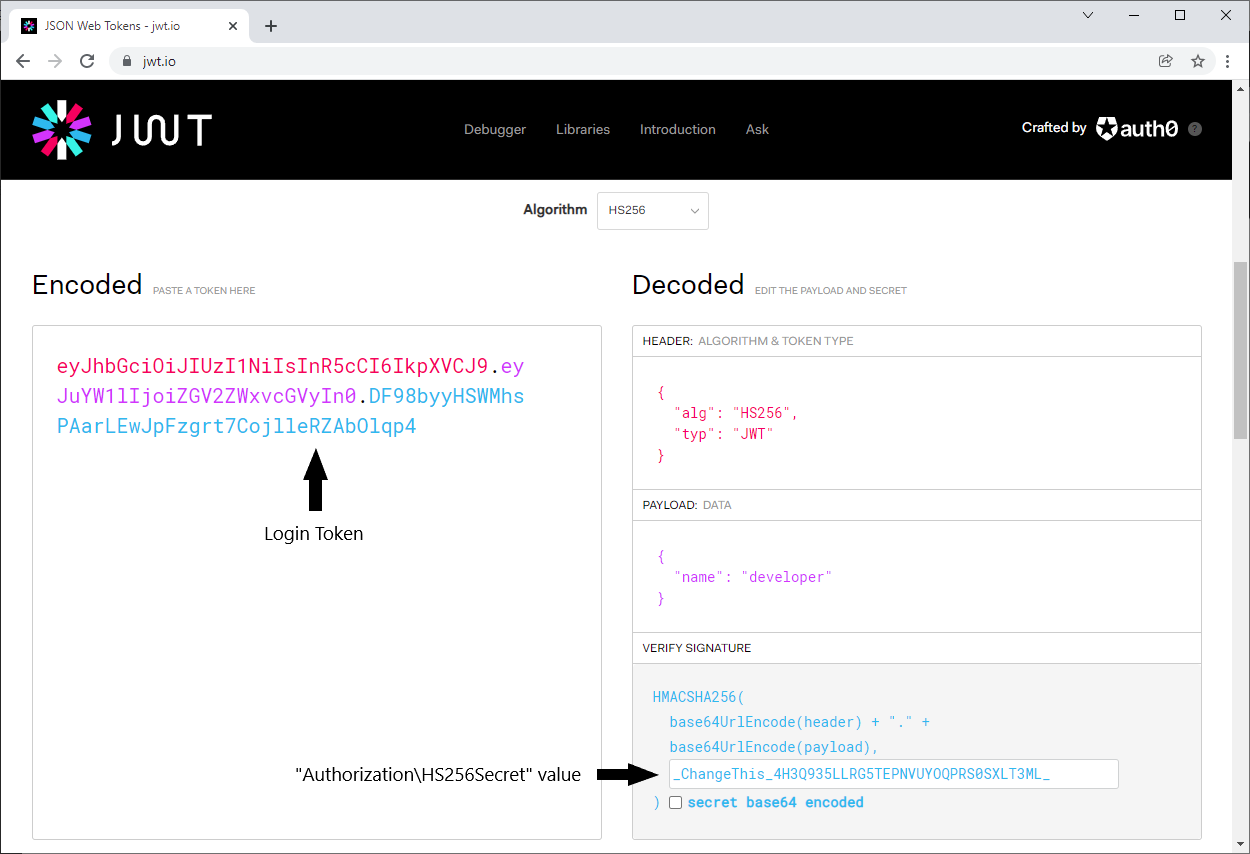
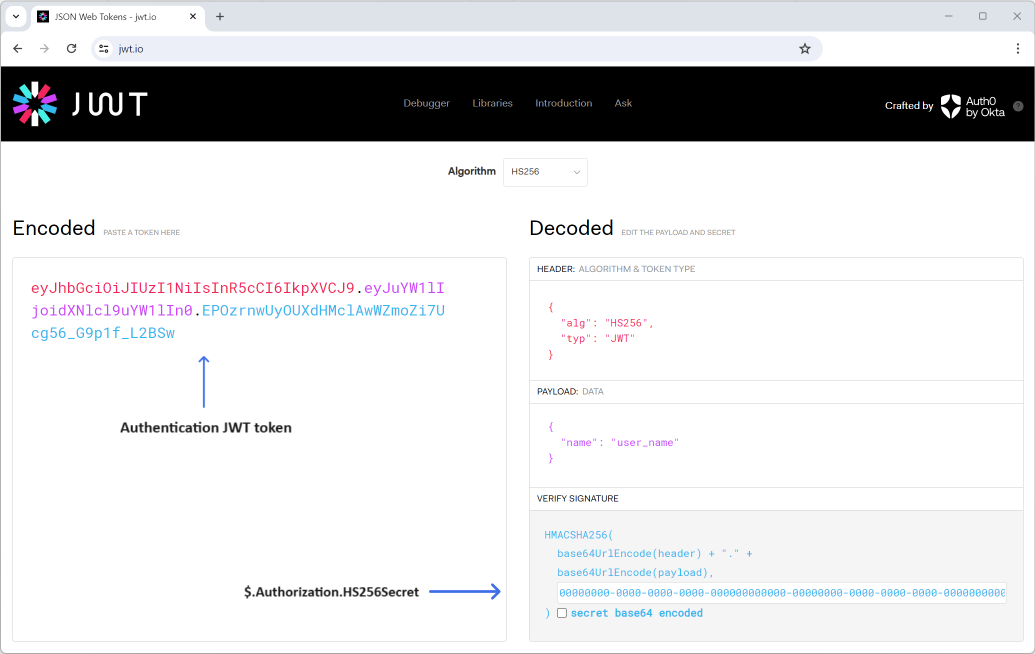
updated/improved documentation

diff --git a/source/on-premises/kisslog-backend/configuration.rst b/source/on-premises/kisslog-backend/configuration.rst
@@ -89,7 +89,7 @@ Database
    * - Database.AzureCosmosDb
    * - Required true when "Database.Provider" is "AzureCosmosDb".
 
-MongoDb
+Database.MongoDb
 ^^^^^^^^^^^^^^^^^^^^^^^^^^^^^^^^^^^^^^^^
 
 Configuration used to connect to MongoDB server.
@@ -105,7 +105,7 @@ Configuration used to connect to MongoDB server.
         }
     }
 
-AzureCosmosDb
+Database.AzureCosmosDb
 ^^^^^^^^^^^^^^^^^^^^^^^^^^^^^^^^^^^^^^^^
 
 Configuration used to connect to Azure Cosmos DB service.
@@ -158,7 +158,7 @@ Files
    * - Files.Azure
    * - Required  when "Files.Provider" is "Azure"
 
-Azure
+Files.Azure
 ^^^^^^^^^^^^^^^^^^^^^^^^^^^^^^^^^^^^^^^^
 
 Configuration used to connect to Azure Storage account.
@@ -191,7 +191,7 @@ All the values provided here must match the same values specified in ``KissLog.F
         }
     }
 
-Database
+KissLogFrontend.Database
 ^^^^^^^^^^^^^^^^^^^^^^^^^^^^^^^^^^^^^^^^
 
 .. code-block:: json
@@ -248,7 +248,7 @@ CreateRequestLog
    * - CreateRequestLog.ValidateApplicationKeys
    * - If true, the ``"ApplicationId"`` and ``"OrganizationId"`` are validated against existing records from the KissLog.Frontend database.
        
-       This is useful if you want to prevent processing logs of applications which have been deleted in the KissLog.Frontend user-interface.
+       This is useful if you want to prevent processing logs from applications which have been deleted in the KissLog.Frontend user-interface, but are still running.
 
 .. list-table::
    :header-rows: 1
@@ -258,7 +258,7 @@ CreateRequestLog
        
        This helps prevent saving excesive large objects in database.
 
-Ignore
+CreateRequestLog.Ignore
 ^^^^^^^^^^^^^^^^^^^^^^^^^^^^^^^^^^^^^^^^
 
 .. code-block:: json
@@ -284,7 +284,7 @@ Ignore
    * - Ignore.ResponseContentTypePatterns
    * - An array of Regex patterns used to identify requests which should be ignored based on the ``Response.Content-Type`` header.
 
-Obfuscate
+CreateRequestLog.Obfuscate
 ^^^^^^^^^^^^^^^^^^^^^^^^^^^^^^^^^^^^^^^^
 
 .. code-block:: json
@@ -334,7 +334,7 @@ Obfuscate
    * - Obfuscate.Patterns
    * - An array of Regex patters which are used to identify potential sensitive data.
 
-Truncate
+CreateRequestLog.Truncate
 ^^^^^^^^^^^^^^^^^^^^^^^^^^^^^^^^^^^^^^^^
 
 Configuration used to truncate request log payloads.
@@ -406,7 +406,7 @@ Before saving to database, the request log will be truncated using the limits pr
         }
     }
 
-Throttle
+CreateRequestLog.Throttle
 ^^^^^^^^^^^^^^^^^^^^^^^^^^^^^^^^^^^^^^^^
 
 .. code-block:: json
@@ -592,7 +592,7 @@ UserAgentParserProvider
 Sets the provider which is used to parse the User-Agent header and display additional information about the Browser/OS.
 
 .. figure:: images/UserAgentParser.png
-    :alt: UserAgentParser
+    :alt: UserAgentParserProvider
 
 .. code-block:: json
     
@@ -615,8 +615,8 @@ Sets the provider which is used to parse the User-Agent header and display addit
 ApplicationSettings
 ~~~~~~~~~~~~~~~~~~~~~~~~~~~~~~~~~~~~~~~~~~~~~~~~~~~~~~~~~
 
-DeleteApplicationDataByExpiryDate
-^^^^^^^^^^^^^^^^^^^^^^^^^^^^^^^^^^^^^^^^
+ApplicationSettings.DeleteApplicationDataByExpiryDate
+^^^^^^^^^^^^^^^^^^^^^^^^^^^^^^^^^^^^^^^^^^^^^^^^^^^^^^^^^^^^^^^^^^^^^^^
 
 .. code-block:: json
     
@@ -634,8 +634,8 @@ DeleteApplicationDataByExpiryDate
    * - DeleteApplicationDataByExpiryDate.TriggerIntervalInMinutes
    * - Specifies the interval of time in which the delete application data service is executed.
 
-ProcessQueues
-^^^^^^^^^^^^^^^^^^^^^^^^^^^^^^^^^^^^^^^^
+ApplicationSettings.ProcessQueues
+^^^^^^^^^^^^^^^^^^^^^^^^^^^^^^^^^^^^^^^^^^^^^^^^^^^^^^^^^^^^^^^^^^^^^^^
 
 .. code-block:: json
     
@@ -660,7 +660,7 @@ ProcessQueues
    * - ProcessQueues.Take
    * - Specifies how many items from queue should be processed at the specified interval of time.
 
-ProcessAlerts
+ApplicationSettings.ProcessAlerts
 ^^^^^^^^^^^^^^^^^^^^^^^^^^^^^^^^^^^^^^^^
 
 .. code-block:: json

diff --git a/source/on-premises/kisslog-frontend/index.rst b/source/on-premises/kisslog-frontend/index.rst
@@ -11,29 +11,22 @@ KissLog.Frontend is a user-interface application used by developers to visualize
 
 KissLog.Frontend is generating the user-interface by consuming KissLog.Backend REST endpoints.
 
-.. figure:: images/kisslog-frontend-architecture.png
-    :alt: KissLog.Frontend arhitecture
-
-    KissLog.Frontend arhitecture
-
 Authentication
 ------------------------------
 
 KissLog.Frontend uses a JSON Web Token (JWT) for authentication.
 
-The authentication JWT must be signed with the secret provided under ``Authorization.HS256Secret`` property from the :ref:`KissLog.json <on-premises/kisslog-frontend/configuration:Authorization>` file.
+The authentication JWT must be signed with the value provided at :ref:`$.Authorization.HS256Secret <on-premises/kisslog-frontend/configuration:Authorization>` property from the KissLog.json configuration file.
 
-For the default value of "Authorization.HS256Secret" ("00000000-0000-0000-0000-000000000000-00000000-0000-0000-0000-000000000000"), you can use the following authentication JWT:
+For the default value of ``$.Authorization.HS256Secret``, you can use the following authentication JWT:
 
 .. code-block:: none
     
+    # $.Authorization.HS256Secret:
+    # 00000000-0000-0000-0000-000000000000-00000000-0000-0000-0000-000000000000
+    
+    # Authentication token:
     eyJhbGciOiJIUzI1NiIsInR5cCI6IkpXVCJ9.e30.HP79qro7bvfH7BneUy5jB9Owc_5D2UavFDulRETAl9E
-
-Authenticated user name can be specified in one of the following options:
-
-- at the end of the JWT using ``token@username``
-
-- in the JWT payload using any of these properties: "emailAddress", "email", "name", "username", "user"
 
 Creating the JWT
 ^^^^^^^^^^^^^^^^^^^^^^^^^^^^
@@ -46,21 +39,44 @@ The authentication JWT can be created programmatically or online (using https://
 .. figure:: images/kisslog-frontend-login.png
     :alt: KissLog.Frontend login page
 
-Tips
+
+User name
 ^^^^^^^^^^^^^^^^^^^^^^^^^^^^
 
-You can automate the login process by specifying the JWT as a query string parameter: `/Auth/Login?token={JWT}`.
+Authenticated user name is used for display purposes only, and it can be specified in one of the following options:
 
-For example, you can bookmark this URL and, once accessed, KissLog will automatically login the user using the bookmarked token.
+- at the end of the JWT, appended as ``@user_name``
 
 .. code-block:: none
     
-    http://kisslog.myapp.com/Auth/Login?token=eyJhbGciOiJIUzI1NiIsInR5cCI6IkpXVCJ9.e30.HP79qro7bvfH7BneUy5jB9Owc_5D2UavFDulRETAl9E
+    # Authentication token:
+    eyJhbGciOiJIUzI1NiIsInR5cCI6IkpXVCJ9.e30.HP79qro7bvfH7BneUy5jB9Owc_5D2UavFDulRETAl9E@user_name
 
-Related resources
-------------------
+- in the JWT payload using any of these claims: "emailAddress", "email", "preferred_username", "name"
+
+Auto-login
+^^^^^^^^^^^^^^^^^^^^^^^^^^^^
+
+You can automate the login process by directly passing the Authentication token in the login url, using the `token=value` query string parameter.
+
+.. code-block:: none
+    
+    # Authentication url:
+    http://localhost:44080/Auth/Login?token=eyJhbGciOiJIUzI1NiIsInR5cCI6IkpXVCJ9.e30.HP79qro7bvfH7BneUy5jB9Owc_5D2UavFDulRETAl9E
+
+Bookmarking this url will allow for a faster login process.
+
+Azure Active Directory
+^^^^^^^^^^^^^^^^^^^^^^^^^^^^^^^^
+
+If :ref:`$.Authorization.AzureActiveDirectory <on-premises/kisslog-frontend/configuration:Authorization.AzureActiveDirectory>` is configured, you can login using the Azure Active Directory OAuth flow.
+
+.. figure:: images/kisslog-frontend-azureActiveDirectory-login.png
+    :alt: KissLog.Frontend Azure Active Directory login option
+
 
 .. toctree::
+   :hidden: 
    :maxdepth: 2
    :titlesonly:
    :includehidden:

diff --git a/source/on-premises/index.rst b/source/on-premises/index.rst
@@ -16,44 +16,28 @@ Artifacts can be downloaded from `https://github.com/KissLog-net/KissLog-server 
 Installation prerequisites
 ------------------------------
 
-.. list-table::
-   :header-rows: 1
-
-   * - Local server
-     - Azure hosting
-     - Run as Docker container
-   * - * IIS Web server with `ASP.NET Core Runtime 6 <https://dotnet.microsoft.com/en-us/download/dotnet/6.0>`_ installed
-       * `MongoDB Community Server <https://www.mongodb.com/try/download/community>`_ (version >= 6.0.x)
-     - * SQL Database
-       * Azure Cosmos DB
-       * Storage account
-       * 2x App Services
-       
-     - `Docker Engine <https://docs.docker.com/engine/>`_
-   
-
-Arhitecture
-------------------------
-
-KissLog Backend
+Local server
 ~~~~~~~~~~~~~~~~~~~~~~~~
 
-KissLog.Backend is the application responsible for saving the logs, exceptions and all other data aggregates.
+- IIS Web server with `ASP.NET Core Runtime 6 <https://dotnet.microsoft.com/en-us/download/dotnet/6.0>`_ installed
+- `MongoDB Community Server <https://www.mongodb.com/try/download/community>`_ (version >= 6.0.x)
 
-Consumer applications (the applications you develop) are sending the logs to KissLog.Backend using HTTP requests.
-
-KissLog Frontend
+Microsoft Azure
 ~~~~~~~~~~~~~~~~~~~~~~~~
 
-KissLog.Frontend represents the user-interface application where users (developers, business analysts, QA testers, application managers) can visualize the captured logs, exceptions and other metrics data.
+- SQL Database
+- Azure Cosmos DB
+- Storage account
+- 2x App Services
 
-.. figure:: images/kissLog-architecture.png
-    :alt: KissLog arhitecture
+Docker
+~~~~~~~~~~~~~~~~~~~~~~~~
 
-Table of Contents
-------------------
+- `Docker Engine <https://docs.docker.com/engine/>`_
+
 
 .. toctree::
+   :hidden: 
    :maxdepth: 2
    :titlesonly:
    :includehidden:

diff --git a/source/on-premises/kisslog-frontend/configuration.rst b/source/on-premises/kisslog-frontend/configuration.rst
@@ -138,7 +138,7 @@ Database
    * - Database.SqlServer
    * - Required when "Database.Provider" is "SqlServer".
 
-MongoDb
+Database.MongoDb
 ^^^^^^^^^^^^^^^^^^^^^^^^^^^^^^^^^^^^^^^^
 
 Configuration used to connect to MongoDb database.
@@ -154,7 +154,7 @@ Configuration used to connect to MongoDb database.
         }
     }
 
-MySql
+Database.MySql
 ^^^^^^^^^^^^^^^^^^^^^^^^^^^^^^^^^^^^^^^^
 
 Configuration used to connect to MySql database.
@@ -169,7 +169,7 @@ Configuration used to connect to MySql database.
         }
     }
 
-SqlServer
+Database.SqlServer
 ^^^^^^^^^^^^^^^^^^^^^^^^^^^^^^^^^^^^^^^^
 
 Configuration used to connect to MS-SQL database.
@@ -225,7 +225,8 @@ Authorization
     
     {
         "Authorization": {
-            "HS256Secret": "00000000-0000-0000-0000-000000000000-00000000-0000-0000-0000-000000000000"
+            "HS256Secret": "00000000-0000-0000-0000-000000000000-00000000-0000-0000-0000-000000000000",
+            "AzureActiveDirectory": {}
         }
     }
 
@@ -239,3 +240,21 @@ Authorization
 
        More details about authentication can be found :ref:`here <on-premises/kisslog-frontend/index:authentication>`.
 
+Authorization.AzureActiveDirectory
+^^^^^^^^^^^^^^^^^^^^^^^^^^^^^^^^^^^^^^^^
+
+Optional configuration used to set up Azure Active Directory authentication.
+
+More details can be found :ref:`here <on-premises/kisslog-frontend/index:Azure Active Directory>`.
+
+.. code-block:: json
+    
+    {
+        "Authorization": {
+            "AzureActiveDirectory": {
+                "ClientId": "<AD Application (client) ID>",
+                "ClientSecret": "<secret>",
+                "Authority": "https://login.microsoftonline.com/<AD Directory (tenant) ID>/v2.0/"
+            }
+        }
+    }

diff --git a/source/on-premises/kisslog-backend/index.rst b/source/on-premises/kisslog-backend/index.rst
@@ -7,19 +7,36 @@ KissLog.Backend
 About
 ------------------------------
 
-KissLog.Backend application is responsible for saving and centralizing the logs data.
+KissLog.Backend application is responsible for saving and centralizing the logs and other metrics.
 
 KissLog.Backend exposes REST endpoints which can be used to save and to query the data.
 
-.. figure:: images/kisslog-backend-architecture.png
-    :alt: KissLog.Backend architecture
-
-    KissLog.Backend architecture
-
-Related resources
-------------------
+.. code-block:: none
+   :caption: Creating a request by consuming the REST endpoint:
+    
+    POST http://localhost:44088/request-logs
+    {
+      "organizationId": "_OrganizationId_",
+      "applicationId": "_ApplicationId_",
+      "startedAt": "2024-03-11T14:36:31.108Z",
+      "durationInMilliseconds": 41,
+      "httpProperties": {
+        "absoluteUri": "http://localhost/catalog/createProduct?locale=en",
+        "method": "POST",
+        "response": {
+          "statusCode": 200
+        }
+      },
+      "logs": [
+        {
+          "logLevel": "Information",
+          "message": "Creating product..."
+        }
+      ]
+    }
 
 .. toctree::
+   :hidden:
    :maxdepth: 2
    :titlesonly:
    :includehidden:

diff --git a/source/on-premises/kisslog-backend/change-log.rst b/source/on-premises/kisslog-backend/change-log.rst
@@ -64,7 +64,7 @@ This release contains significant improvements for the process of saving request
 
 **Configuration changes**
 
-Introduced :ref:`UserAgentParserProvider <on-premises/kisslog-backend/configuration/index:useragentparserprovider>` configuration property.
+Introduced :ref:`UserAgentParserProvider <on-premises/kisslog-backend/configuration:useragentparserprovider>` configuration property.
 
 .. admonition:: Update guide
 
@@ -187,7 +187,7 @@ This update comes with important improvements for Microsoft Azure hosting, reduc
 
    After updating to KissLog.Backend 4.0.0, all the existing logs and metrics will be lost. 
 
-   If you are updating an existing instance of KissLog.Backend, please update the MongoDB server to 6.0 and point to a new :ref:`DatabaseName <on-premises/kisslog-backend/configuration/index:database>`.
+   If you are updating an existing instance of KissLog.Backend, please update the MongoDB server to 6.0 and point to a new :ref:`DatabaseName <on-premises/kisslog-backend/configuration:database>`.
 
 
 **KissLog.json** changes:
